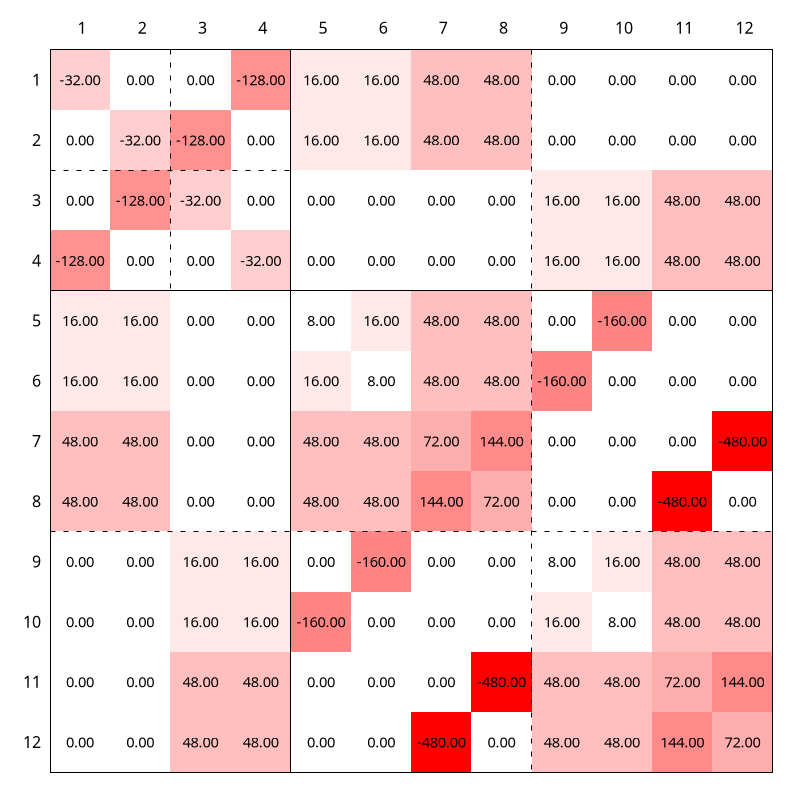
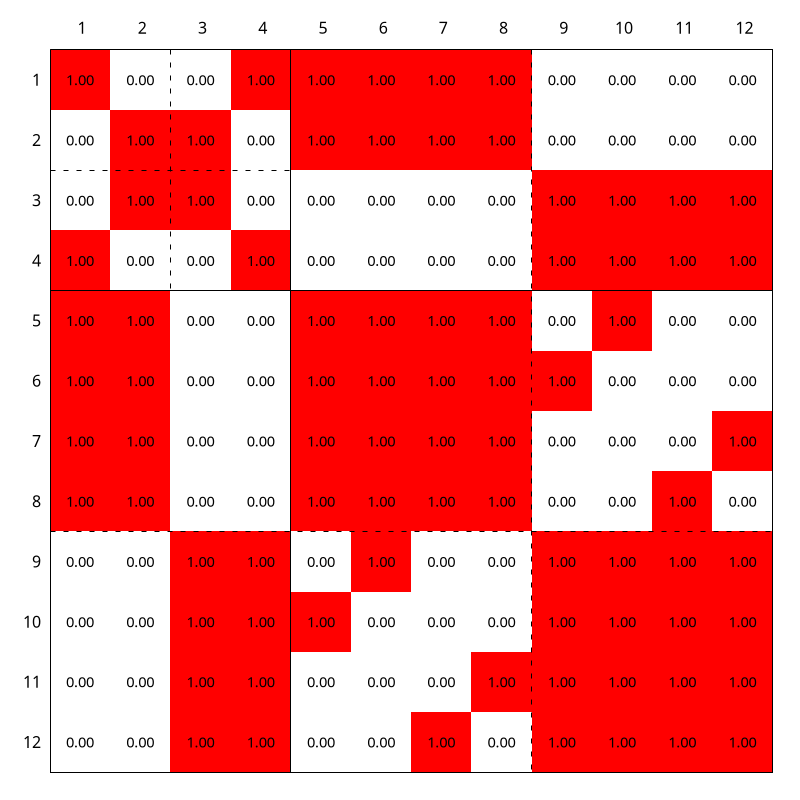
Fix message adding kick

diff --git a/testutils/phonons/phonons_test.py b/testutils/phonons/phonons_test.py
@@ -91,7 +91,7 @@ for phononterm in [[ph.VcX,ph.VcX],[ph.VcY,ph.VcY]]:
                 dens_jindex = orbvalley_index(dc_dens_array[iterm][3],dc_dens_array[iterm][4],dc_dens_array[iterm][5])
                 tmp_dc_full[iindex,ispin,jindex,ispin] += dc_coeff_array[iterm] * densities[dens_iindex,ispin,dens_jindex,ispin]
    
-   
+tmp_dc_full_bak=np.copy(tmp_dc_full[:,0,:,0])   
    
 if False:       
     tmp_dc_full=np.real(tmp_dc_full)       
@@ -100,21 +100,20 @@ if False:
 
 if False: 
     print(" ")
-    tmp_dc_full_bak=np.copy(tmp_dc_full[:,0,:,0])
     tmp_dc_full=tmp_dc_full[:,0,:,0]-np.transpose(tmp_dc_full[:,0,:,0])      
     for i in range(12):
         print(str(tmp_dc_full[i,0])+"  "+str(tmp_dc_full[i,1])+"  "+str(tmp_dc_full[i,2])+"  "+str(tmp_dc_full[i,3])+"  "+str(tmp_dc_full[i,4])+"  "+str(tmp_dc_full[i,5])+"  "+str(tmp_dc_full[i,6])+"  "+str(tmp_dc_full[i,7])+"  "+str(tmp_dc_full[i,8])+"  "+str(tmp_dc_full[i,9])+"  "+str(tmp_dc_full[i,10])+"  "+str(tmp_dc_full[i,11]))
 
-if False: 
+if True: 
     print(" ")
-
+    tmp_dc_full=tmp_dc_full[:,0,:,0]-np.transpose(tmp_dc_full[:,0,:,0]) 
     for i in range(12):
         for j in range(12):
             if tmp_dc_full_bak[i,j] != 0:
                 tmp_dc_full[i,j]=1
             else:
                 tmp_dc_full[i,j]=0
-                
+    tmp_dc_full=np.real(tmp_dc_full)            
     for i in range(12):
         print(str(tmp_dc_full[i,0])+"  "+str(tmp_dc_full[i,1])+"  "+str(tmp_dc_full[i,2])+"  "+str(tmp_dc_full[i,3])+"  "+str(tmp_dc_full[i,4])+"  "+str(tmp_dc_full[i,5])+"  "+str(tmp_dc_full[i,6])+"  "+str(tmp_dc_full[i,7])+"  "+str(tmp_dc_full[i,8])+"  "+str(tmp_dc_full[i,9])+"  "+str(tmp_dc_full[i,10])+"  "+str(tmp_dc_full[i,11]))
 
@@ -122,7 +121,7 @@ if False:
 
 
 
-if True:
+if False:
 
     firstop=phonons.onebody_op("f",ph.VfX)
     firstop.create_1bo()
@@ -133,4 +132,5 @@ if True:
     twobodyterm.normalorder()
     twobodyterm.prettyprint()
     twobodyterm.decouple()
+    print(np.imag(ph.VcY))
     #twobodyterm.prettyprint_decoupled()

diff --git a/w2dyn/dmft/selfcons.py b/w2dyn/dmft/selfcons.py
@@ -265,7 +265,7 @@ class DMFTStep:
                 dens = self.get_loc_imp_mixdens()
                 #FIXME: put a kick in the density at the beginning
                 if self.sigma_kick_thresh and (self.niter_kick < self.sigma_kick_persist):
-                    print("Adding dc kick for ",self.niter_kick," steps out of ",self.sigma_kick_persist)
+                    print("Adding dc kick for ",self.niter_kick + 1," steps out of ",self.sigma_kick_persist)
                     if self.niter_kick == 0:
                         self.sigma_kick_mat = np.zeros([norbitals,nspins,norbitals,nspins])
                         #itmpmat =  np.random.normal(0.0,self.sigma_kick_thresh,[norbitals,norbitals])
@@ -274,6 +274,10 @@ class DMFTStep:
                         #    self.mpi_comm.bcast(tmpmat, root=0)
                         tmpmat = self.sigma_kick_thresh*np.ones([norbitals,norbitals])
                         np.fill_diagonal(tmpmat,0.0)
+                        #tmpmat[0:2,8:12]=0.0
+                        #tmpmat[2:4,4:8]=0.0
+                        #tmpmat[8:12,0:2]=0.0
+                        #tmpmat[4:8,2:4]=0.0
                         for ispin in range(nspins):
                             self.sigma_kick_mat[:,ispin,:,ispin] = np.copy(tmpmat)
                     dens += self.sigma_kick_mat
